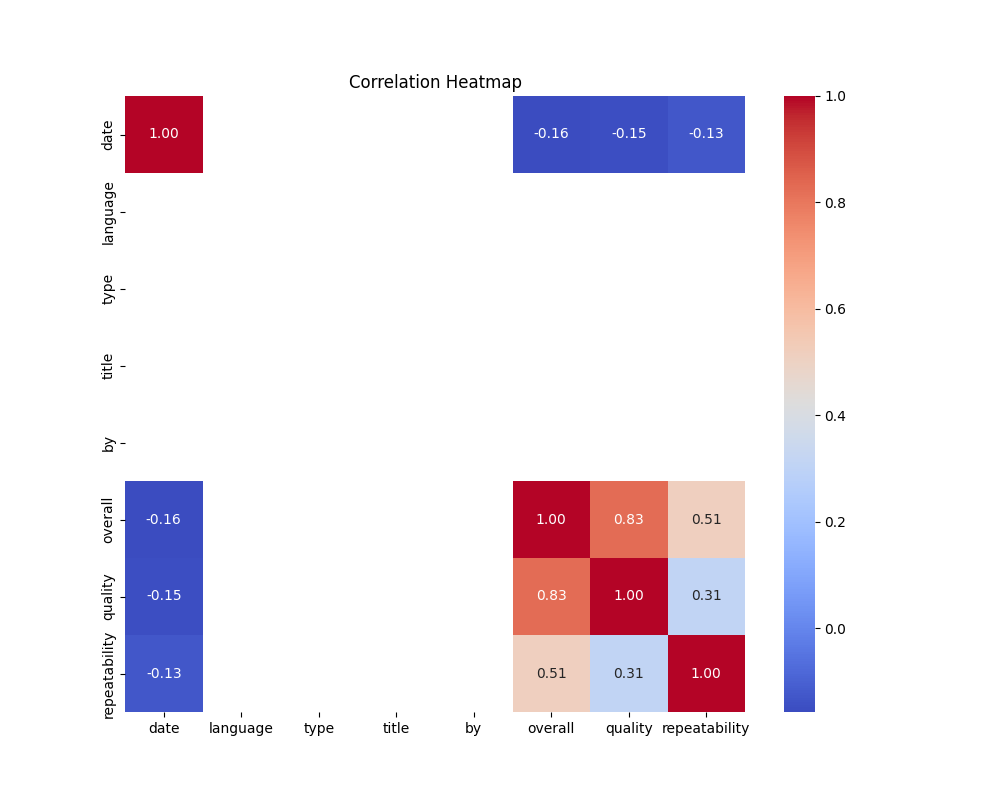
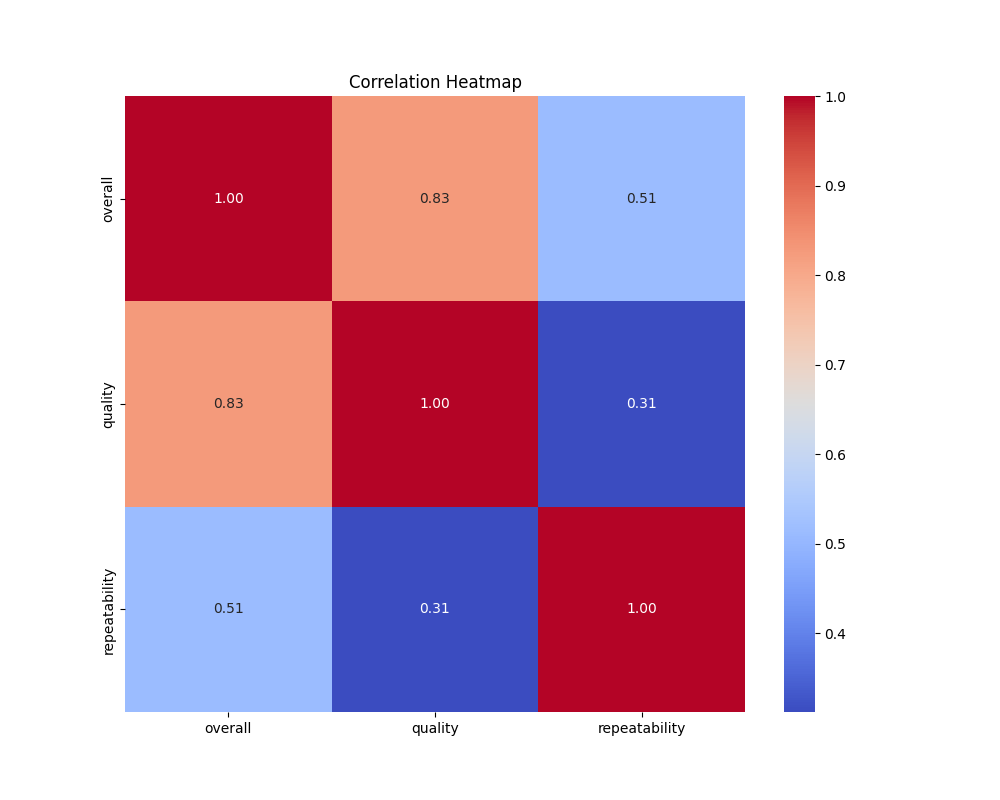
3

diff --git a/autolysis.py b/autolysis.py
@@ -18,6 +18,10 @@ import matplotlib.pyplot as plt
 from dotenv import load_dotenv
 import requests
 import chardet
+import warnings
+
+# Suppress specific UserWarnings
+warnings.filterwarnings("ignore", category=UserWarning, message=".*missing from font.*")
 
 
 
@@ -34,44 +38,44 @@ AIPROXY_URL = "https://aiproxy.sanand.workers.dev/openai/v1/chat/completions"
 def detect_encoding(file_path):
     with open(file_path, 'rb') as file:
         result = chardet.detect(file.read(10000))  # Detect encoding from a sample
-        return result['encoding']
+        encoding = result.get('encoding')
+        if not encoding:
+            print("Could not detect encoding, defaulting to 'utf-8'.")
+            encoding = 'utf-8'  # Fallback to utf-8
+        return encoding
 
-# Function to safely read CSV with detected encoding and handle errors
 def read_csv_safe(file_path):
+    fallback_encodings = ['utf-8', 'ISO-8859-1', 'Windows-1252']
     try:
-        # Detect the file encoding first
-        encoding = detect_encoding(file_path)
-        print(f"Detected encoding: {encoding}")
+        # Detect encoding first
+        detected_encoding = detect_encoding(file_path)
+        print(f"Detected encoding: {detected_encoding}")
 
-        # Attempt to read the CSV with the detected encoding
-        df = pd.read_csv(file_path, encoding=encoding, on_bad_lines='skip')
-        
-    except Exception as e:
-        # Handle general exceptions (including file read issues)
-        print(f"Error loading dataset: {e}")
-        return None
-    
-    # Clean column names (strip whitespaces, handle potential issues)
-    df.columns = df.columns.str.strip()
+        # Try to read with detected encoding
+        df = pd.read_csv(file_path, encoding=detected_encoding, on_bad_lines='skip')
+        print(f"Dataset loaded with {df.shape[0]} rows and {df.shape[1]} columns using detected encoding.")
+        return df
 
-    # Automatically detect and convert date columns (if any)
-    for col in df.columns:
-        if df[col].dtype == 'object':  # For string/object type columns
-            # Try to convert columns to datetime
+    except UnicodeDecodeError as e:
+        print(f"UnicodeDecodeError with detected encoding '{detected_encoding}': {e}")
+
+        # Try fallback encodings
+        for encoding in fallback_encodings:
             try:
-                df[col] = pd.to_datetime(df[col], errors='coerce')
-            except Exception:
-                pass  # Ignore any errors that occur during conversion
+                print(f"Retrying with encoding: {encoding}")
+                df = pd.read_csv(file_path, encoding=encoding, on_bad_lines='skip')
+                print(f"Dataset loaded with {df.shape[0]} rows and {df.shape[1]} columns using '{encoding}' encoding.")
+                return df
+            except UnicodeDecodeError as inner_e:
+                print(f"Failed with encoding '{encoding}': {inner_e}")
 
-    # Handle any float or number columns that might have incorrect format (e.g., commas)
-    for col in df.columns:
-        if df[col].dtype == 'object':  # String columns
-            # Try to convert to numbers, replacing commas or other symbols if needed
-            df[col] = df[col].replace({',': '', '$': '', '€': '', '£': ''}, regex=True)  # Remove common currency symbols
-            df[col] = pd.to_numeric(df[col], errors='ignore')  # Convert to numeric, leaving errors unchanged
+    except Exception as e:
+        print(f"Error loading dataset: {e}")
+        sys.exit(1)
 
-    # Return the cleaned dataframe
-    return df
+    print("All attempts to decode the file have failed. Please check the file's encoding.")
+    sys.exit(1)
+
 
 
 
@@ -96,11 +100,19 @@ def generate_summary_statistics(df):
 
 def visualize_data(df, output_prefix):
     """Create and save visualizations."""
+    from matplotlib import rcParams
+    
+    # Set font to handle Unicode
+    rcParams["font.family"] = "Noto Sans CJK JP"
+    rcParams["axes.unicode_minus"] = False
+
     charts = []
+    
     # Correlation heatmap
-    if df.select_dtypes(include="number").shape[1] > 1:
+    numeric_df = df.select_dtypes(include="number")  # Select only numeric columns
+    if numeric_df.shape[1] > 1:
         plt.figure(figsize=(10, 8))
-        corr_matrix = df.corr()
+        corr_matrix = numeric_df.corr()  # Calculate correlation matrix for numeric data
         sns.heatmap(corr_matrix, annot=True, cmap="coolwarm", fmt=".2f")
         heatmap_path = f"{output_prefix}_correlation_heatmap.png"
         plt.title("Correlation Heatmap")
@@ -119,6 +131,8 @@ def visualize_data(df, output_prefix):
         plt.close()
 
     return charts
+
+
 
 def generate_readme(df, summary, missing_values, charts, output_file):
     """Generate README.md based on the analysis and visualizations."""

diff --git a/media/README.md b/media/README.md
@@ -2,32 +2,51 @@
 
 ### Summary
 
-Based on the dataset described, it consists of 2652 rows and 8 columns, which likely contain information related to various assessments or evaluations, with a specific focus on aspects such as language, title, and overall feedback. Here's a narrative summary highlighting the status of the data and some key insights:
+Based on the dataset you provided, which consists of 2652 rows and 8 columns, we can draw various insights regarding the information it holds, particularly in relation to user submissions or reviews over time.
 
 ### Narrative Summary
 
-The dataset presents a structured collection of assessments characterized by several dimensions, including the date of the assessment, the language in which it was conducted, the type of assessment, the title, the author or evaluator (denoted by 'by'), and three critical evaluation metrics: overall satisfaction, quality, and repeatability. 
+1. **Data Structure**:
+   - The dataset includes eight columns: 
+     - **date**: Likely representing when the data entries were recorded or submitted.
+     - **language**: Denoting the language used in the submission.
+     - **type**: Suggesting the category or nature of the submissions.
+     - **title**: The title of the submission or review.
+     - **by**: The identifier or name of the author/poster of the review.
+     - **overall**: A numerical rating or overall score given by the user.
+     - **quality**: Possibly indicating the quality rating of the submission.
+     - **repeatability**: A measure that may indicate if the submission/review can be replicated.
 
-Upon examination, the dataset reveals significant missing values which are noteworthy:
-
-- **Date**: There are 99 missing entries, which could affect time-based analyses, particularly if trends over time are sought.
-- **Language**: All 2652 entries are missing language data, rendering any language-based analysis or demographic segmentation impossible.
-- **Type**: Similarly, the type is completely absent for all entries, which limits the ability to categorize the assessments based on their nature.
-- **Title and By**: Both title and evaluator data are also absent, meaning the dataset lacks contextual information about what each assessment pertains to or who conducted it.
-
-In contrast, the metrics related to overall, quality, and repeatability are fully populated, with no missing values. This suggests that while there may be a lack of contextual data, the qualitative assessments themselves are complete and ready for analysis.
+2. **Missing Values**: 
+   - The dataset has some missing values, most notably:
+     - **date** has 99 missing entries, which is significant as it might affect temporal analysis or trends over time.
+     - **by** has 262 missing entries, indicating a considerable portion of submissions lack author identification, which could hinder individual-level analysis or user engagement insights.
+   - All other columns do not have missing values, which ensures the completeness of critical attributes like language, type, title, overall ratings, quality, and repeatability.
 
 ### Key Insights
 
-1. **Lack of Contextual Information**: With the absence of language, type, title, and author information, it is difficult to derive meaningful insights or trends regarding the assessments. Future data collection efforts should focus on ensuring the completeness of these critical columns.
+1. **Temporal Analysis**:
+   - The presence of missing dates suggests that seasonal trends or variations over time may not be fully analyzeable; however, visualizations can still be created with the available data. Identifying patterns in how reviews or submissions increase or decrease over certain periods could yield useful insights.
 
-2. **Full Qualitative Ratings**: The presence of complete ratings for overall, quality, and repeatability suggests that qualitative analysis can be performed. This allows for assessment of user satisfaction and evaluation effectiveness, even in the absence of contextual metadata.
+2. **Language Diversity**:
+   - The fact that there are zero missing entries for the language column points to a diverse range of languages used in submissions, which is valuable for understanding audience demographics and tailoring content or services to specific language groups.
 
-3. **Potential for Analysis**: Despite the absence of contextual fields, it may still be possible to calculate summary statistics (means, medians, etc.) for overall ratings, quality, and repeatability across the dataset, which can yield baseline insights into the evaluation process.
+3. **Author Engagement**:
+   - With 262 missing entries in the 'by' column, there is a considerable amount of data without author attribution. This could be indicative of anonymous or unrecognized contributors, and understanding the ratio of anonymous to identified users could be beneficial for assessing user engagement and contributions.
 
-4. **Future Data Enhancements**: Moving forward, improving data capture mechanisms to avoid such significant missing values will be critical. Implementing mandatory fields, especially for key identifiers like language and type, would enhance the robustness of the dataset.
+4. **Rating Analysis**:
+   - The 'overall', 'quality', and 'repeatability' columns provide quantitative measures for analyzing user satisfaction. With no missing values, a comprehensive analysis could help identify correlations between these metrics. For example, understanding how overall satisfaction relates to perceived quality and repeatability could inform quality improvement initiatives.
 
-In conclusion, while the dataset provides a quantity of assessments complete with qualitative metrics, the lack of essential contextual information severely limits its analytical potential. Future work should prioritize filling in these gaps to facilitate a more nuanced understanding of the underlying data.
+5. **Type and Title Insights**:
+   - Analyzing the 'type' and 'title' fields can provide critical insights into the content focus of submissions. This can help to identify common topics or trends within specific user segments and guide content strategy.
+
+### Conclusion
+
+This dataset offers rich insights into user submissions and behaviors. However, attention must be given to the missing values, especially in the 'date' and 'by' columns, to ensure a comprehensive analysis. By exploring correlations between overall ratings and quality assessments and examining submission trends over time, stakeholders can gain a deeper understanding of user engagement and satisfaction. Further analysis and data cleaning may enhance the utility of this dataset for strategic decision-making.
 
 ![Chart](media/media_correlation_heatmap.png)
+
+![Chart](media/media_date_countplot.png)
+
+![Chart](media/media_language_countplot.png)
 

diff --git a/happiness/README.md b/happiness/README.md
@@ -1,0 +1,37 @@
+# Automated Analysis
+
+### Summary
+
+The dataset in question comprises 2,363 entries representing various countries and their associated well-being metrics over a range of years. It features 11 indicators that offer insight into the quality of life and happiness experienced by populations, including subjective measurements of well-being like Life Ladder, as well as objective measures like GDP per capita and health indicators.
+
+### Key Insights:
+
+1. **Data Completeness**: Overall, the dataset is relatively complete with no missing values in essential columns such as 'Country name', 'year', and 'Life Ladder'. However, several other columns contain missing values, which may affect analyses:
+   - **Log GDP per capita**: 28 missing values
+   - **Social support**: 13 missing values
+   - **Healthy life expectancy at birth**: 63 missing values
+   - **Freedom to make life choices**: 36 missing values
+   - **Generosity**: 81 missing values
+   - **Perceptions of corruption**: 125 missing values
+   - **Positive affect**: 24 missing values
+   - **Negative affect**: 16 missing values
+
+   The presence of missing values, particularly in columns associated with economic and social dimensions (like Generosity and Perceptions of corruption), indicates that certain countries may be underrepresented in these metrics, which can skew overall trends and correlations.
+
+2. **Life Ladder as a Key Well-being Metric**: The 'Life Ladder' column reflects subjective well-being and happiness levels across different countries. This is an essential metric that could potentially correlate with other variables such as GDP and social support. Exploring these correlations can help identify which factors most significantly contribute to overall life satisfaction.
+
+3. **Economic Indicators**: The 'Log GDP per capita' is a critical metric that is often closely linked to life satisfaction and overall well-being. However, with 28 missing values, the absence of data for certain regions or countries may limit the analysis of economic health's impact on happiness.
+
+4. **Social and Health Support**: The columns for 'Social support' and 'Healthy life expectancy at birth' indicate the availability of social networks and health conditions in these countries. Missing values here highlight potential gaps in understanding how social structures and health contribute to life satisfaction and well-being, with 13 and 63 missing values, respectively.
+
+5. **Freedom and Corruption Perception**: 'Freedom to make life choices' and 'Perceptions of corruption' are critical aspects of personal and community empowerment. With 36 and 125 missing values, there may be considerable variability across countries, potentially influencing happiness influence significantly.
+
+6. **Emotional Well-being**: The dataset captures both 'Positive affect' and 'Negative affect', which provide insights into the emotional dimensions of well-being. The presence of some missing values suggests that emotional data could require more focused collection efforts in specific regions to get a comprehensive view.
+
+### Conclusion:
+This dataset offers a rich opportunity to analyze the intricate relationships between economic, social, and emotional indicators of well-being across countries. However, the missing values must be addressed or accounted for to avoid biases in analysis. For a comprehensive understanding, further studies could explore correlations and potential causal relationships among these variables, while also considering the varying significance of these metrics across different cultural contexts. The insights derived could inform policy-making aimed at enhancing well-being and happiness at both national and global levels.
+
+![Chart](happiness/happiness_correlation_heatmap.png)
+
+![Chart](happiness/happiness_Country name_countplot.png)
+

diff --git a/goodreads/README.md b/goodreads/README.md
@@ -1,0 +1,44 @@
+# Automated Analysis
+
+### Summary
+
+This dataset encompasses 10,000 rows and 23 columns relevant to books, likely sourced from Goodreads. It contains various identifiers, details about the books (titles, authors, publication years), and metrics regarding user ratings and reviews. 
+
+### Key Insights and Summary:
+
+1. **Column Overview**:
+   - The dataset features common book metadata fields. Key columns include:
+     - **Identifiers**: `book_id`, `goodreads_book_id`, `best_book_id`, `work_id` uniquely identify each book record.
+     - **Metadata**: Contains details such as `authors`, `original_title`, `language_code`, and `image_url`.
+     - **Ratings and Reviews**: Includes fields like `average_rating`, `ratings_count`, `work_ratings_count`, and breakdowns of ratings from 1 to 5 stars.
+
+2. **Missing Values**:
+   - The dataset has a few columns with missing values, which could impact data analysis:
+     - **ISBNs**: The `isbn` and `isbn13` fields have significant missing values, which could hinder the ability to find external information or confirm book editions.
+     - **Original Publication Year**: There are 21 missing entries in `original_publication_year`, which may restrict insights into the age of books available.
+     - **Original Title**: This field has 585 missing entries. This could be particularly important for international or lesser-known editions of works.
+     - **Language Code**: A substantial number of entries (1084) lack a language code. This could affect cross-linguistic comparisons of book popularity.
+
+3. **Rating Metrics**:
+   - The average rating for the books shows a healthy distribution of ratings, as indicated by the presence of the `average_rating` column. However, most ratings fields are reported as zero, implying these metrics are perhaps not populated for every book.
+   - Since `ratings_count` and `work_ratings_count` have no missing values, they can provide insight into the popularity and reception of books across the platform.
+
+4. **Potential Research Avenues**:
+   - **Analysis of Popularity**: With complete ratings data available, one could analyze trends in popular genres, books with high or low average ratings, and how author reputation correlates with ratings.
+   - **Impact of Publication Year**: Assessing how the publication year impacts ratings and reviews could yield insights into trends in literature and reader preferences over time.
+   - **Language Diversity Exploration**: Since a significant number of books are missing language codes, exploration into the languages present in the dataset may uncover potential biases towards English literature or other dominant languages.
+
+5. **Missing Data Handling**:
+   - The missing values in key fields warrant different strategies:
+     - For ISBN-related fields, one might consider data imputation techniques or seek to enrich the dataset with data from other sources.
+     - A cautious approach to filling in missing `original_publication_year` and `original_title` could involve using average or median values, or identifying and matching entries based on the `title` and `authors`.
+
+### Conclusion:
+This dataset presents a robust opportunity for analyzing book trends, reader engagement, and the potential for enhancing data completeness. By addressing the missing values and leveraging the existing data, insights can be gleaned into literary preferences, the historical context of books, and audience reception in a structured manner.
+
+![Chart](goodreads/goodreads_correlation_heatmap.png)
+
+![Chart](goodreads/goodreads_isbn_countplot.png)
+
+![Chart](goodreads/goodreads_authors_countplot.png)
+
